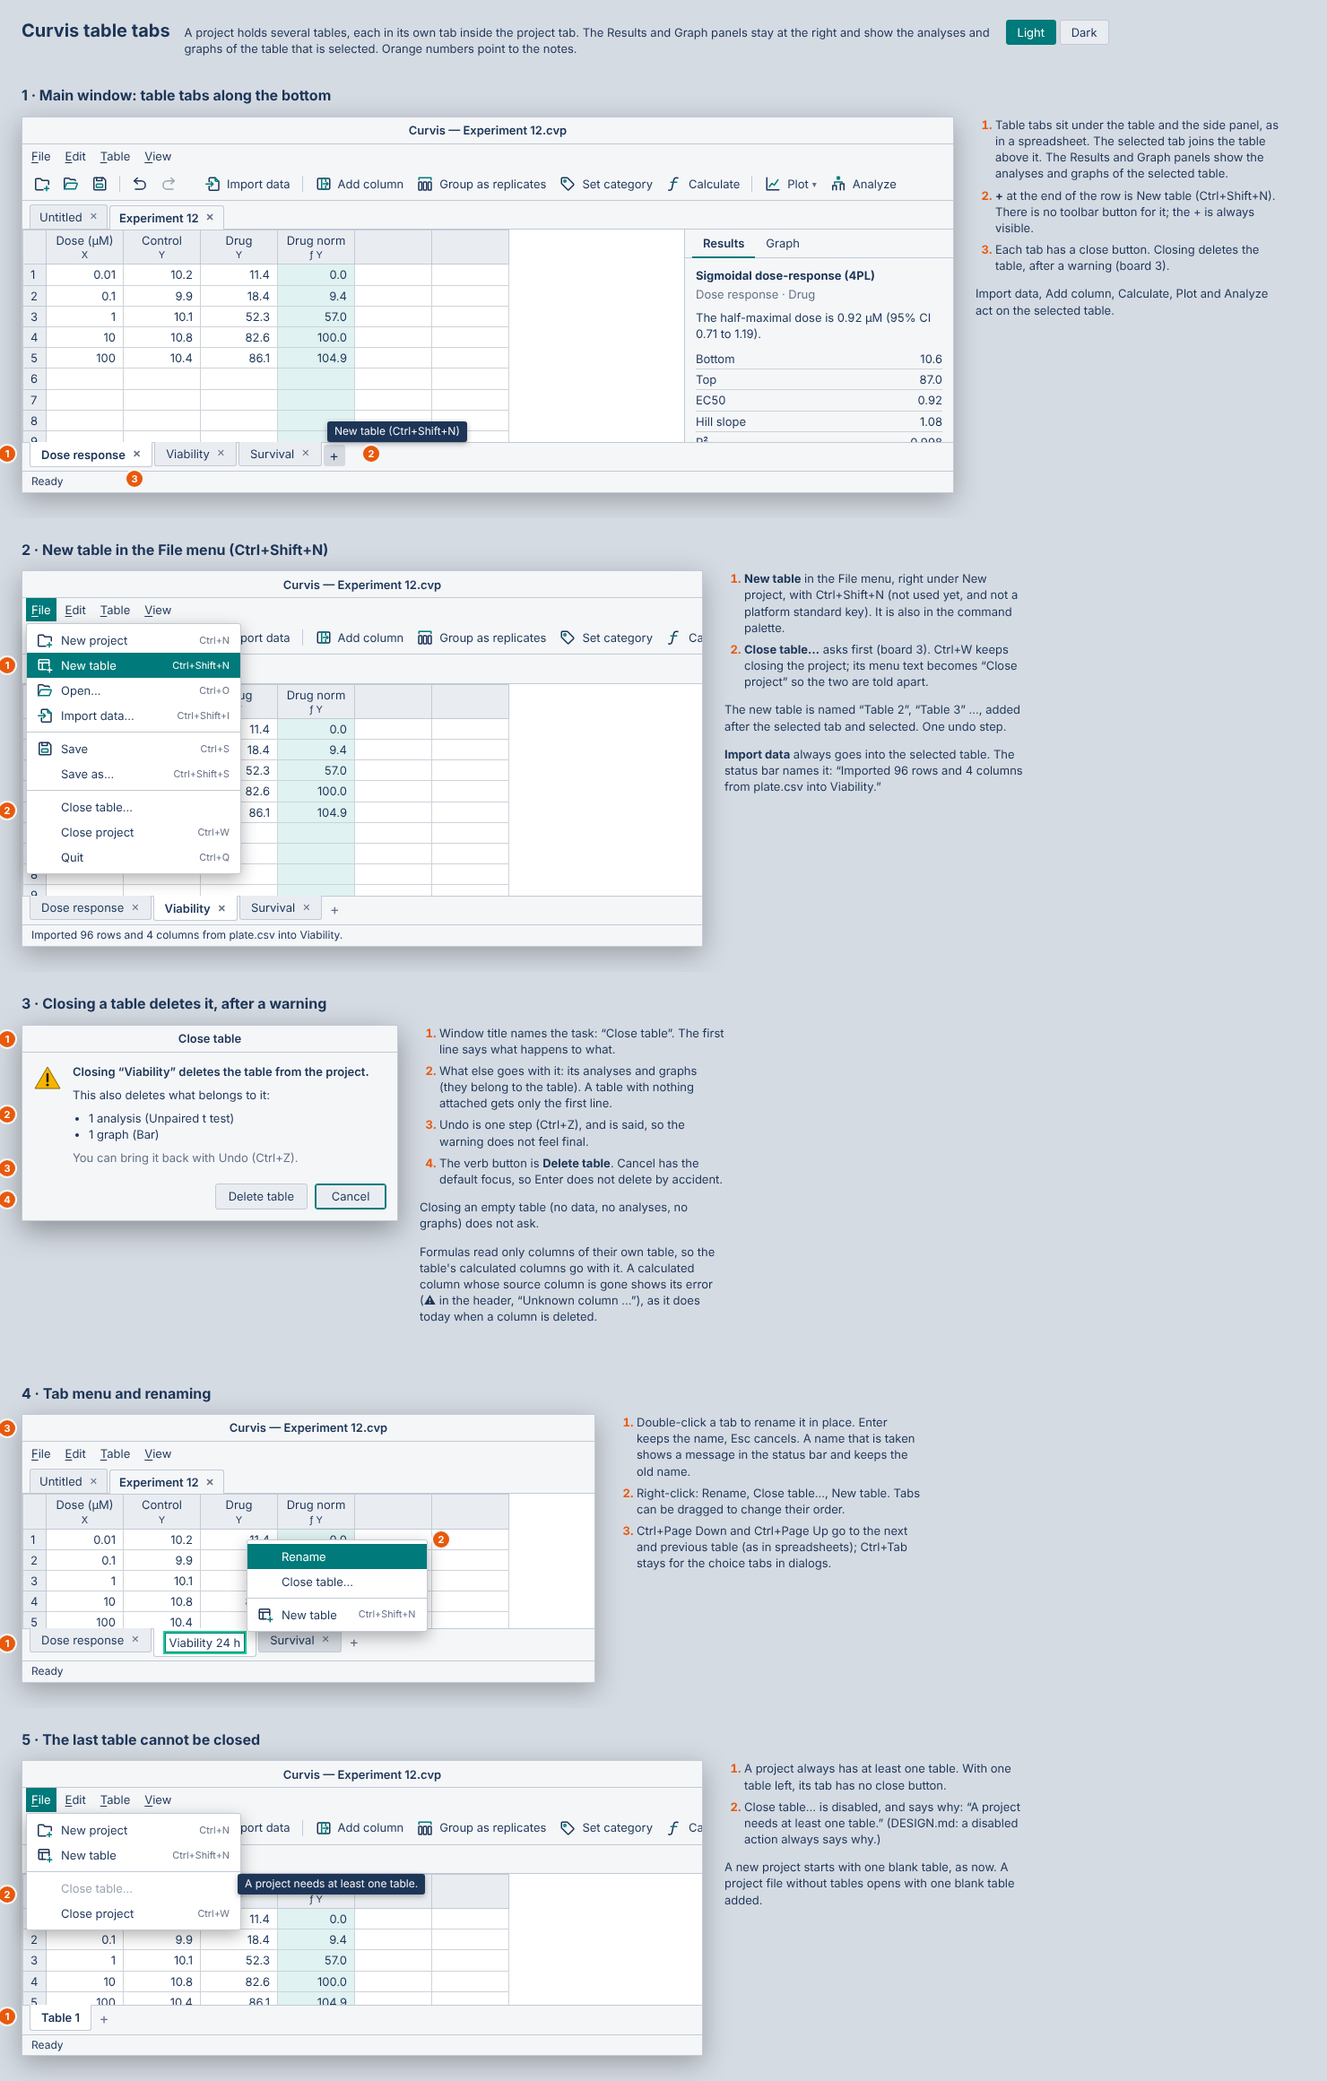
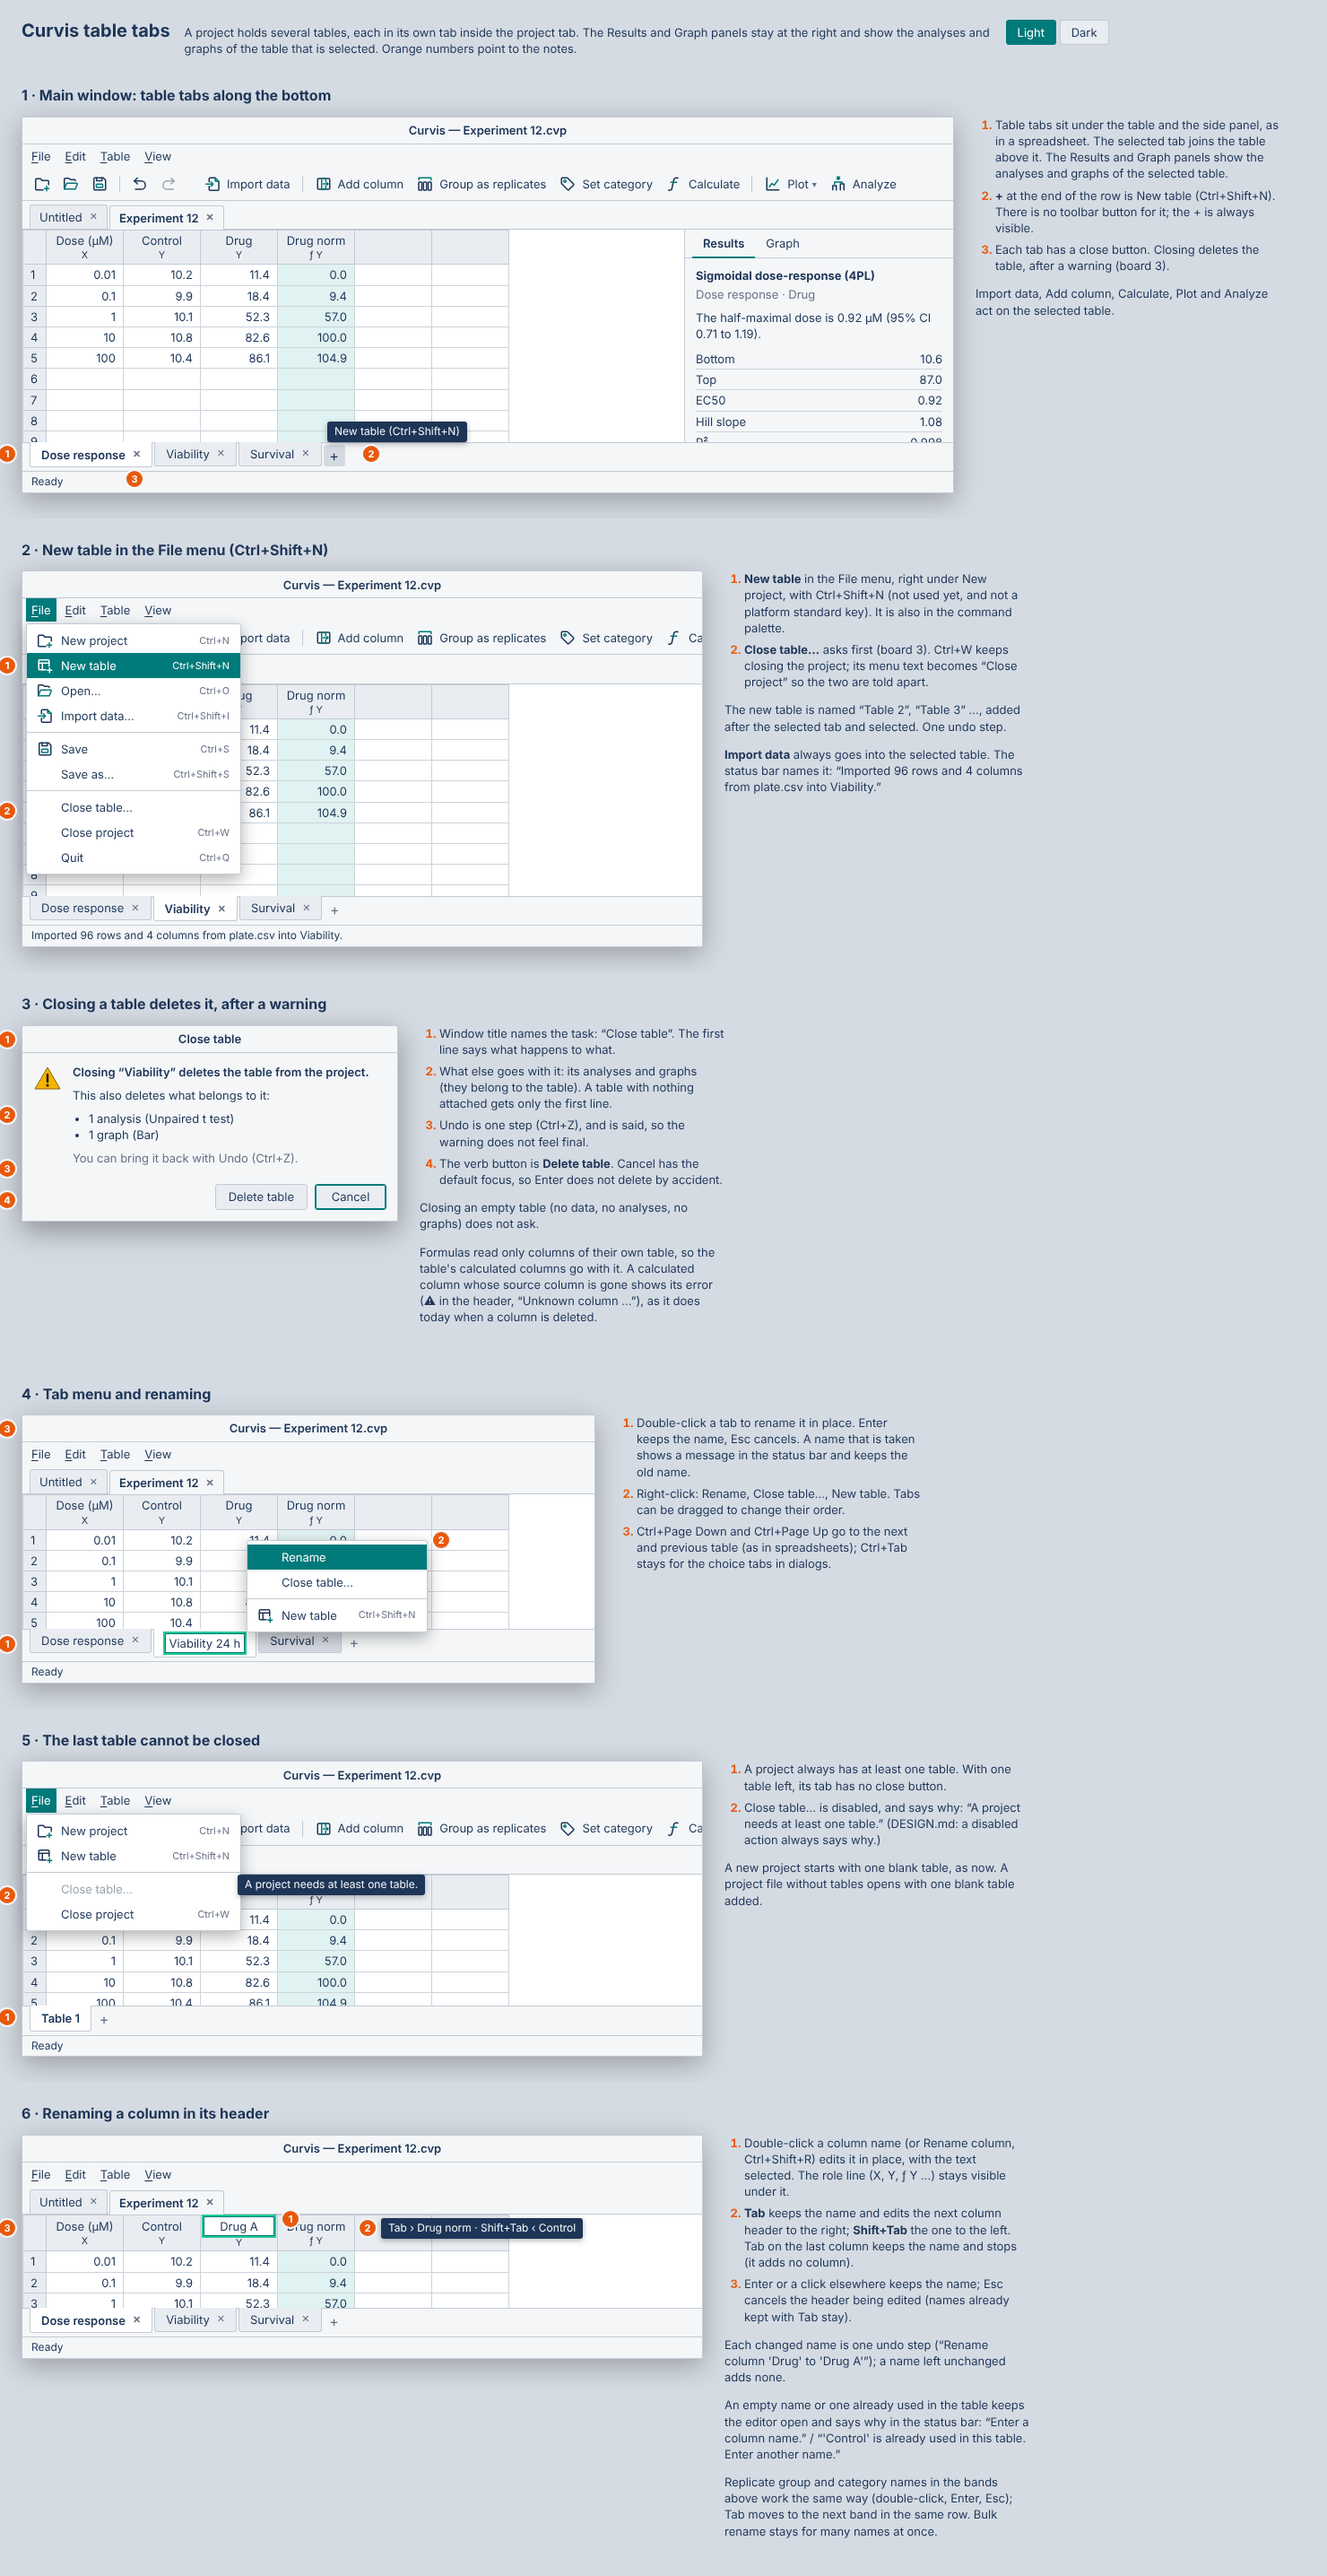
Specify renaming column names in place in the header
Double-click (or Rename column, Ctrl+Shift+R) edits the name in the
header; Tab and Shift+Tab keep it and move to the next and previous
header. Group and category bands rename the same way. Added to SPEC.md,
DESIGN.md section 9, board 6 of the table tabs mockup and step 2.6.

Claude-Session: https://claude.ai/code/session_01CFpmBXdvB83DX2wThvKU3a

Changed region(s): [[0.0, 0.0, 0.9635, 0.9927]]

diff --git a/docs/mockups/table-tabs.html b/docs/mockups/table-tabs.html
@@ -8,7 +8,7 @@
   Mockup of several tables per project, shown as sheet tabs along the bottom of the project
   tab (version A, approved; B-D, a second row on top, tabs above the table only and a
   vertical list, were not chosen). Also: New table, the warning when a table is closed,
-  renaming, and the last table. Drawn at 1:1 with the theme palette (DESIGN.md section 3).
+  renaming, the last table, and renaming a column in its header. Drawn at 1:1 with the theme palette (DESIGN.md section 3).
 -->
 <style>
   :root, :root[data-theme="light"] {
@@ -254,6 +254,23 @@
   </div>
 </section>
 
+<section class="board">
+  <h2>6 · Renaming a column in its header</h2>
+  <div class="row">
+    <div class="win" id="v9" style="width:760px;height:250px;overflow:visible"></div>
+    <div class="notes">
+      <ol>
+        <li>Double-click a column name (or Rename column, Ctrl+Shift+R) edits it in place, with the text selected. The role line (X, Y, ƒ Y …) stays visible under it.</li>
+        <li><b>Tab</b> keeps the name and edits the next column header to the right; <b>Shift+Tab</b> the one to the left. Tab on the last column keeps the name and stops (it adds no column).</li>
+        <li>Enter or a click elsewhere keeps the name; Esc cancels the header being edited (names already kept with Tab stay).</li>
+      </ol>
+      <p>Each changed name is one undo step (“Rename column 'Drug' to 'Drug A'”); a name left unchanged adds none.</p>
+      <p>An empty name or one already used in the table keeps the editor open and says why in the status bar: “Enter a column name.” / “'Control' is already used in this table. Enter another name.”</p>
+      <p>Replicate group and category names in the bands above work the same way (double-click, Enter, Esc); Tab moves to the next band in the same row. Bulk rename stays for many names at once.</p>
+    </div>
+  </div>
+</section>
+
 <script>
   var ICONS = {
       "new": "<path d=\"M17.25 10.75V7.25a1 1 0 0 0-1-1H10L8.25 4.25h-4.5a1 1 0 0 0-1 1v10.5a1 1 0 0 0 1 1H11\"/><path class=\"a\" d=\"M15 12.75v5M12.5 15.25h5\"/>",
@@ -386,6 +403,17 @@
     '</div>' +
     '<div class="tip" style="left:240px;top:126px">A project needs at least one table.</div>' +
     m(1, "left:-26px;bottom:34px") + m(2, "left:-26px;top:140px");
+
+  // 6: rename a header in place
+  (function () {
+    var g = grid()
+      .replace('<th>Drug<small>Y</small></th>', '<th style="padding:1px 3px"><span class="edit" style="display:block;text-align:center">Drug A</span><small>Y</small></th>')
+      .replace('<th>Drug norm<small>ƒ Y</small></th>', '<th style="position:relative">Drug norm<small>ƒ Y</small></th>');
+    document.getElementById("v9").innerHTML = chrome({ noTable: true }).replace(/<div class="toolbars">[\s\S]*?<\/div>/, '') +
+      '<div class="content">' + g + '</div>' + btabs(TABLES, 0) + status() +
+      '<div class="tip" style="left:400px;top:92px">Tab › Drug norm · Shift+Tab ‹ Control</div>' +
+      m(1, "left:298px;top:70px") + m(2, "left:376px;top:94px") + m(3, "left:-26px;top:94px");
+  })();
 
   (function () {
     var root = document.documentElement, buttons = document.querySelectorAll(".switch button");

diff --git a/docs/PHASES.md b/docs/PHASES.md
@@ -406,12 +406,13 @@ Build src/curvis/charts:
 Make a plan first. When done, report what you built and the redraw benchmark.
 ```
 
-### Step 2.6 — Several tables per project
+### Step 2.6 — Several tables per project, renaming in place
 
 **Done when**
 - [ ] A project shows its tables as tabs along the bottom; New table (File menu, +, Ctrl+Shift+N) adds one, and tabs can be renamed and reordered.
 - [ ] Closing a table deletes it with its calculated columns, analyses and graphs after the warning, as one undo step; the last table cannot be closed.
 - [ ] The Results and Graph panels, Import data and the table toolbar follow the selected table; a project with several tables saves and opens unchanged.
+- [ ] Column, replicate group and category names are renamed in place in the header; Tab and Shift+Tab move to the next and previous header.
 
 ```text
 Read CLAUDE.md, docs/SPEC.md and step 2.6 in docs/PHASES.md.
@@ -423,7 +424,8 @@ Build several tables per project, following docs/DESIGN.md section 8 and docs/mo
 - The Close table warning built from src/curvis/ui/dialogs.py, with Cancel as the default button; an empty table closes without asking. Disabled Close table says why.
 - Import data goes into the selected table; the status message names it.
 - Double-click rename in place and a tab context menu (Rename, Close table…, New table); drag to reorder.
-- Tests: unit tests for the commands (remove with analyses and graphs, undo, last-table refusal, move), a save/open round trip with three tables, and pytest-qt tests for the main paths (new, switch, rename, close with warning, close the last table refused, import into the selected table, panels follow the table). Check the graph redraw benchmark does not regress.
+- Renaming in the column header, following docs/DESIGN.md section 9 and board 6 of the mockup: double-click a column name or Rename column (Ctrl+Shift+R, no longer a dialog) opens a field over the name; Enter or a click elsewhere keeps it, Esc cancels, Tab / Shift+Tab keep it and edit the next / previous header, stopping at the last column. Group and category bands use the same editor (Tab moves within their row). One RenameColumn (or group/category rename) per changed name; invalid names keep the field open with the reason in the status bar. Share the in-place editor with the table tab rename.
+- Tests: unit tests for the commands (remove with analyses and graphs, undo, last-table refusal, move), a save/open round trip with three tables, and pytest-qt tests for the main paths (new, switch, rename, close with warning, close the last table refused, import into the selected table, panels follow the table, header rename with Enter, Esc, Tab across several headers, Shift+Tab, the last column, an invalid name, undo per name). Check the graph redraw benchmark does not regress.
 
 Make a plan first. When done, report what you built, the tests and benchmarks, and anything open.
 ```

diff --git a/docs/DESIGN.md b/docs/DESIGN.md
@@ -186,6 +186,7 @@ at least **4.5 : 1**, and `tests/ui/test_theme.py` checks it.
   | Ctrl+, | Settings |
   | Ctrl+Shift+I | Import data |
   | Ctrl+Shift+N | New table |
+  | Ctrl+Shift+R | Rename column (in the header) |
   | Ctrl+Page Down / Ctrl+Page Up | Next / previous table |
   | Ctrl+Shift+K | Calculate |
   | Ctrl+Shift+E | Edit calculation |
@@ -270,3 +271,22 @@ Mockup: `docs/mockups/table-tabs.html`.
   cancels, and a name already used keeps the old name and says so in the status bar. The
   context menu has *Rename*, *Close table…* and *New table*. Tabs can be dragged to reorder.
 - **Keyboard.** Ctrl+Page Down and Ctrl+Page Up select the next and previous table.
+
+## 9. Renaming in the column header
+
+Mockup: `docs/mockups/table-tabs.html`, board 6.
+
+- **Start.** Double-click a column name, or use *Rename column* (Ctrl+Shift+R) on the current
+  column: a field opens over the name in the header with the text selected. The role line
+  under it (X, Y, ƒ Y …) stays visible. *Rename column* opens no dialog, so its menu text has
+  no ellipsis.
+- **Keys.** Enter or a click elsewhere keeps the name. Esc cancels the header being edited.
+  Tab keeps the name and edits the next column header to the right, Shift+Tab the one to the
+  left. Tab on the last column keeps the name and stops; it never adds a column.
+- **Undo.** Each changed name is one undo step (“Rename column 'Drug' to 'Drug A'”). A name
+  left unchanged adds none, and names kept with Tab stay when a later header is cancelled.
+- **Invalid names.** An empty name or one already used in the table keeps the field open and
+  says why in the status bar: “Enter a column name.” or “'Control' is already used in this
+  table. Enter another name.” Esc gives up and keeps the old name.
+- **Group and category bands** rename the same way (double-click, Enter, Esc), instead of a
+  dialog; Tab moves to the next band in the same row. Bulk rename stays for many names at once.

diff --git a/docs/SPEC.md b/docs/SPEC.md
@@ -29,6 +29,7 @@ Columns can be organized further:
 
 - **Replicate groups** combine several Y columns into one series, from which mean, SD and SEM are calculated.
 - **Category groups** define a second factor for two-way ANOVA and grouped charts.
+- **Renaming in place.** Double-clicking a column name in the header edits it in place; Tab keeps the name and moves to the next column header on the right (Shift+Tab to the left), so a row of names can be typed in one go. Replicate group and category names in the header edit the same way.
 - **Bulk rename** relabels many columns and groups in one step.
 
 Columns and column groups are movable by drag and drop.
